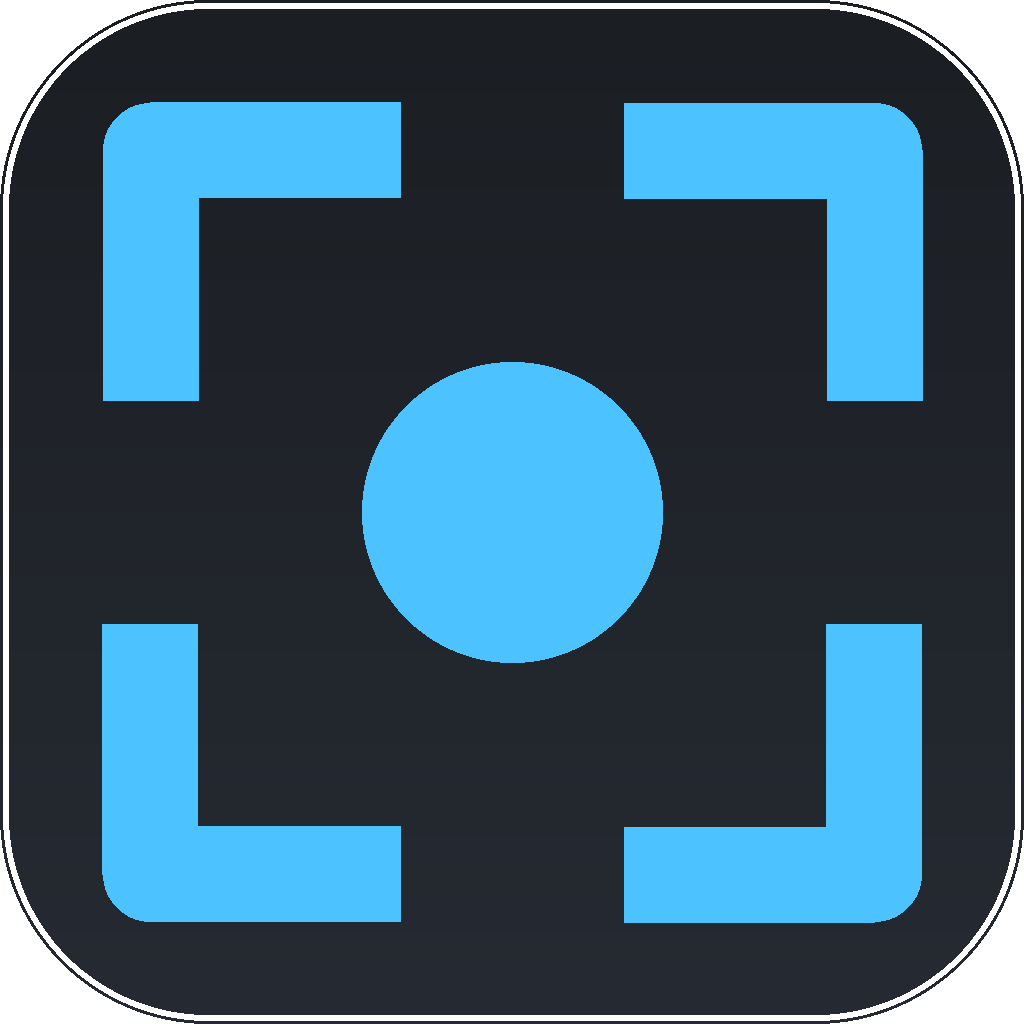
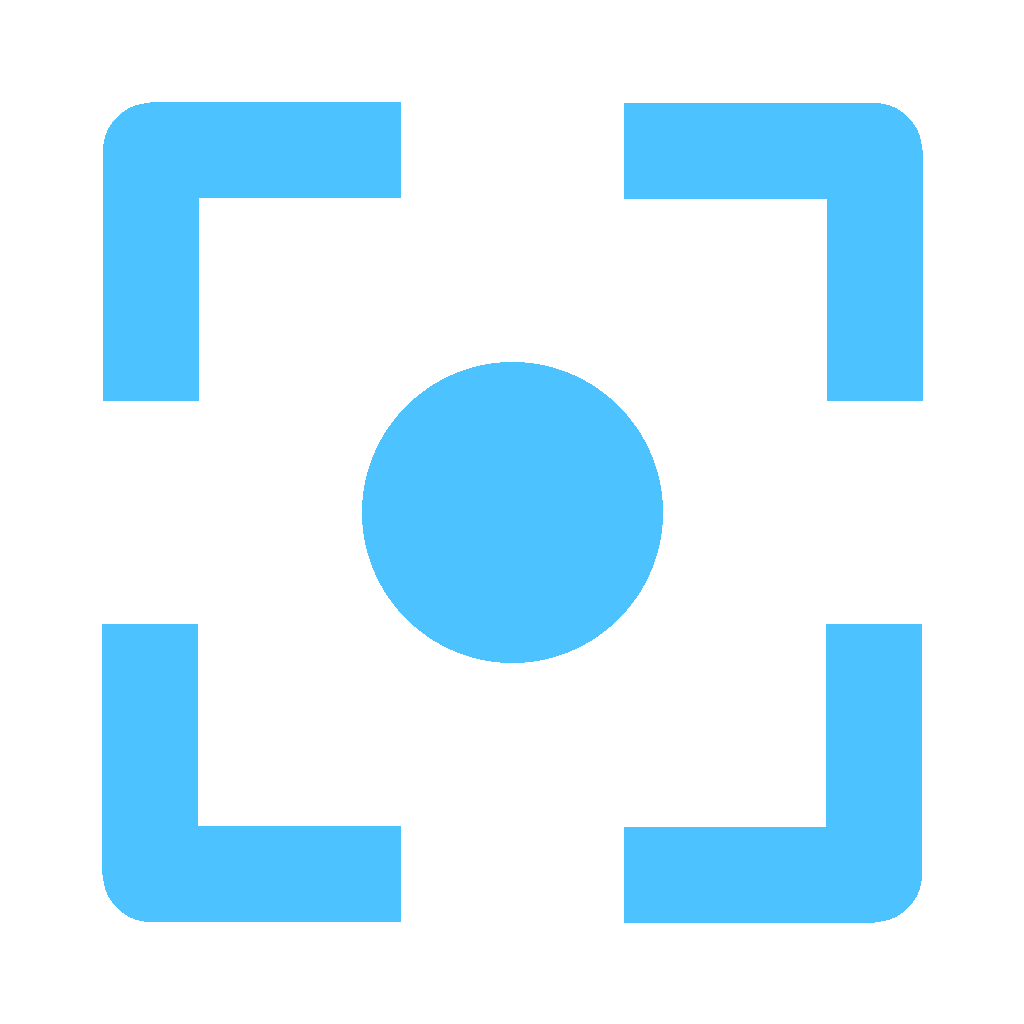
图标去掉深色砖面，托盘与站点标记同步
取景框标记直接落在透明底上：assets/FrameCapture.ico 与两份 PNG 由 make-icon.py 一次生成，
脚本同时写 assets/ 与 site/assets/，favicon 与 exe 图标同源。
托盘图标按同一份比例绘制，边距 14.65% / 臂长 24.41% / 线宽 9.38% / 中心点直径 29.30%，
64px 画布交给外壳缩放；圆头改平头、圆角接头，与源图的 butt cap + curve joint 一致。
站点品牌标记改内联 SVG symbol 复用，颜色跟 --accent-text：浅色主题下换成深色版强调色，
比固定 #4CC2FF 在浅底上立得住；砖面时代的 border-radius 与描边阴影一并删掉。

diff --git a/site/index.html b/site/index.html
@@ -40,9 +40,10 @@
   <div class="ambient__noise"></div>
 </div>
 
+<svg class="mark-def" aria-hidden="true"><symbol id="fc-mark" viewBox="0 0 1024 1024"><path d="M400 150H150v250M624 150h250v250M150 624v250h250M624 874h250V624" fill="none" stroke="currentColor" stroke-width="96" stroke-linejoin="round"/><circle cx="512" cy="512" r="150" fill="currentColor"/></symbol></svg>
 <header class="topbar" id="topbar">
   <a class="brand" href="#top">
-    <img class="brand__mark" src="assets/FrameCapture-256.png" alt="" width="28" height="28">
+    <svg class="brand__mark" aria-hidden="true" width="28" height="28"><use href="#fc-mark"/></svg>
     <span class="brand__name">FrameCapture</span>
     <span class="brand__ver">0.9 预览</span>
   </a>
@@ -379,7 +380,7 @@
 </main>
 
 <footer class="foot">
-  <img class="foot__mark" src="assets/FrameCapture-256.png" alt="" width="22" height="22">
+  <svg class="foot__mark" aria-hidden="true" width="22" height="22"><use href="#fc-mark"/></svg>
   <span>FrameCapture · 本地运行的截图与录制工具</span>
   <span class="foot__spacer"></span>
   <span class="foot__theme">0.9 预览版</span>

diff --git a/site/css/layout.css b/site/css/layout.css
@@ -31,11 +31,14 @@
   flex: 0 0 auto;
 }
 
+.mark-def { display: none; }
+
 .brand__mark {
   width: 28px; height: 28px;
-  border-radius: var(--r-control);
-  box-shadow: 0 0 0 1px var(--stroke-soft), 0 4px 12px -6px rgba(0, 0, 0, 0.7);
+  color: var(--accent-text);   /* 浅色主题下强调色文字版，标记跟着主题走 */
 }
+
+.foot__mark { color: var(--accent-text); }
 
 .brand__name {
   font-family: var(--font-display);
@@ -419,7 +422,6 @@
   border-top: 1px solid var(--stroke-soft);
 }
 
-.foot__mark { border-radius: 6px; }
 .foot__spacer { flex: 1 1 auto; }
 .foot__theme code { font-size: 12px; }
 

diff --git a/scripts/make-icon.py b/scripts/make-icon.py
@@ -1,41 +1,22 @@
-"""生成 FrameCapture 应用图标：取景框四角 + 快门点，Fluent 强调色落在深色圆角砖上。
+"""生成 FrameCapture 应用图标：取景框四角 + 中心快门点，强调色直接落在透明底上。
 
+强调色 #4CC2FF 与 Theme.Accent 同值；深浅两种桌面都靠描边本身立形。
 多尺寸 .ico 一次生成，exe / 开始菜单 / 「应用和功能」共用同一份源图。
-小尺寸靠加大描边与中心点保证可读，不做逐尺寸重绘。
+小尺寸靠加粗描边与放大中心点保证可读，不做逐尺寸重绘。
+同一份图同时写 assets/ 与 site/assets/，网页 favicon 与 exe 图标同源不分叉。
+托盘图标（Services/TrayService.cs）按本文件的比例常量绘制，两处改一处要同步另一处。
 """
 from PIL import Image, ImageDraw
 
 S = 1024                      # 源图边长，所有尺寸由它等比降采样
 ACCENT = (76, 194, 255, 255)  # Fluent 强调色 #4CC2FF，与 Theme.Accent 同值
-BG_TOP = (27, 30, 35, 255)    # 砖面顶部，贴近 Theme 深色 ChromeBg
-BG_BOT = (38, 43, 51, 255)
-TILE_R = 208                  # 圆角半径（源图坐标系）
-TILE_EDGE = (255, 255, 255, 46)  # 砖面边线：深色桌面上砖面与背景几乎同色，靠这条才分得开
-TILE_EDGE_W = 6               # 边线线宽（源图坐标系）
-INSET = 150                   # 取景框四角到砖边的距离
+INSET = 150                   # 取景框四角到画布边的距离
 ARM = 250                     # 每条角标的臂长
 STROKE = 96                   # 角标描边粗细
 DOT_R = 150                   # 中心快门点半径
 
-
-def tile():
-    """深色圆角砖，纵向微渐变。"""
-    img = Image.new("RGBA", (S, S), (0, 0, 0, 0))
-    grad = Image.new("RGBA", (S, S))
-    gd = ImageDraw.Draw(grad)
-    for y in range(S):
-        t = y / (S - 1)
-        c = tuple(int(BG_TOP[i] + (BG_BOT[i] - BG_TOP[i]) * t) for i in range(3)) + (255,)
-        gd.line([(0, y), (S, y)], fill=c)
-    mask = Image.new("L", (S, S), 0)
-    ImageDraw.Draw(mask).rounded_rectangle([0, 0, S - 1, S - 1], TILE_R, fill=255)
-    img.paste(grad, (0, 0), mask)
-    # 边线向内收半个线宽，否则外缘被画布裁掉半像素、四角发暗
-    w = TILE_EDGE_W
-    o = w // 2
-    ImageDraw.Draw(img).rounded_rectangle(
-        [o, o, S - 1 - o, S - 1 - o], TILE_R - o, outline=TILE_EDGE, width=w)
-    return img
+# 供托盘图标换算的比例（占源图边长的百分比）
+RATIOS = dict(inset=INSET / S, arm=ARM / S, stroke=STROKE / S, dot=2 * DOT_R / S)
 
 
 def corners(d):
@@ -47,7 +28,7 @@ def corners(d):
 
 
 def draw_icon():
-    img = tile()
+    img = Image.new("RGBA", (S, S), (0, 0, 0, 0))
     d = ImageDraw.Draw(img)
     corners(d)
     c = S // 2
@@ -83,9 +64,12 @@ def preview(src, path):
 if __name__ == "__main__":
     import os
     os.makedirs("assets", exist_ok=True)
+    os.makedirs("site/assets", exist_ok=True)
     icon = draw_icon()
     icon.save("assets/FrameCapture.ico",
               format="ICO", sizes=[(s, s) for s in SIZES], bitmap_sizes=[(s, s) for s in SIZES])
     icon.save("assets/FrameCapture-256.png")
+    icon.save("site/assets/FrameCapture-256.png")
     preview(icon, "test-out/icon-preview.png")
-    print("written assets/FrameCapture.ico  sizes=" + ",".join(map(str, SIZES)))
+    print("written assets/FrameCapture.ico + 两份 PNG  sizes=" + ",".join(map(str, SIZES)))
+    print("ratios " + " ".join(f"{k}={v:.4f}" for k, v in RATIOS.items()))
